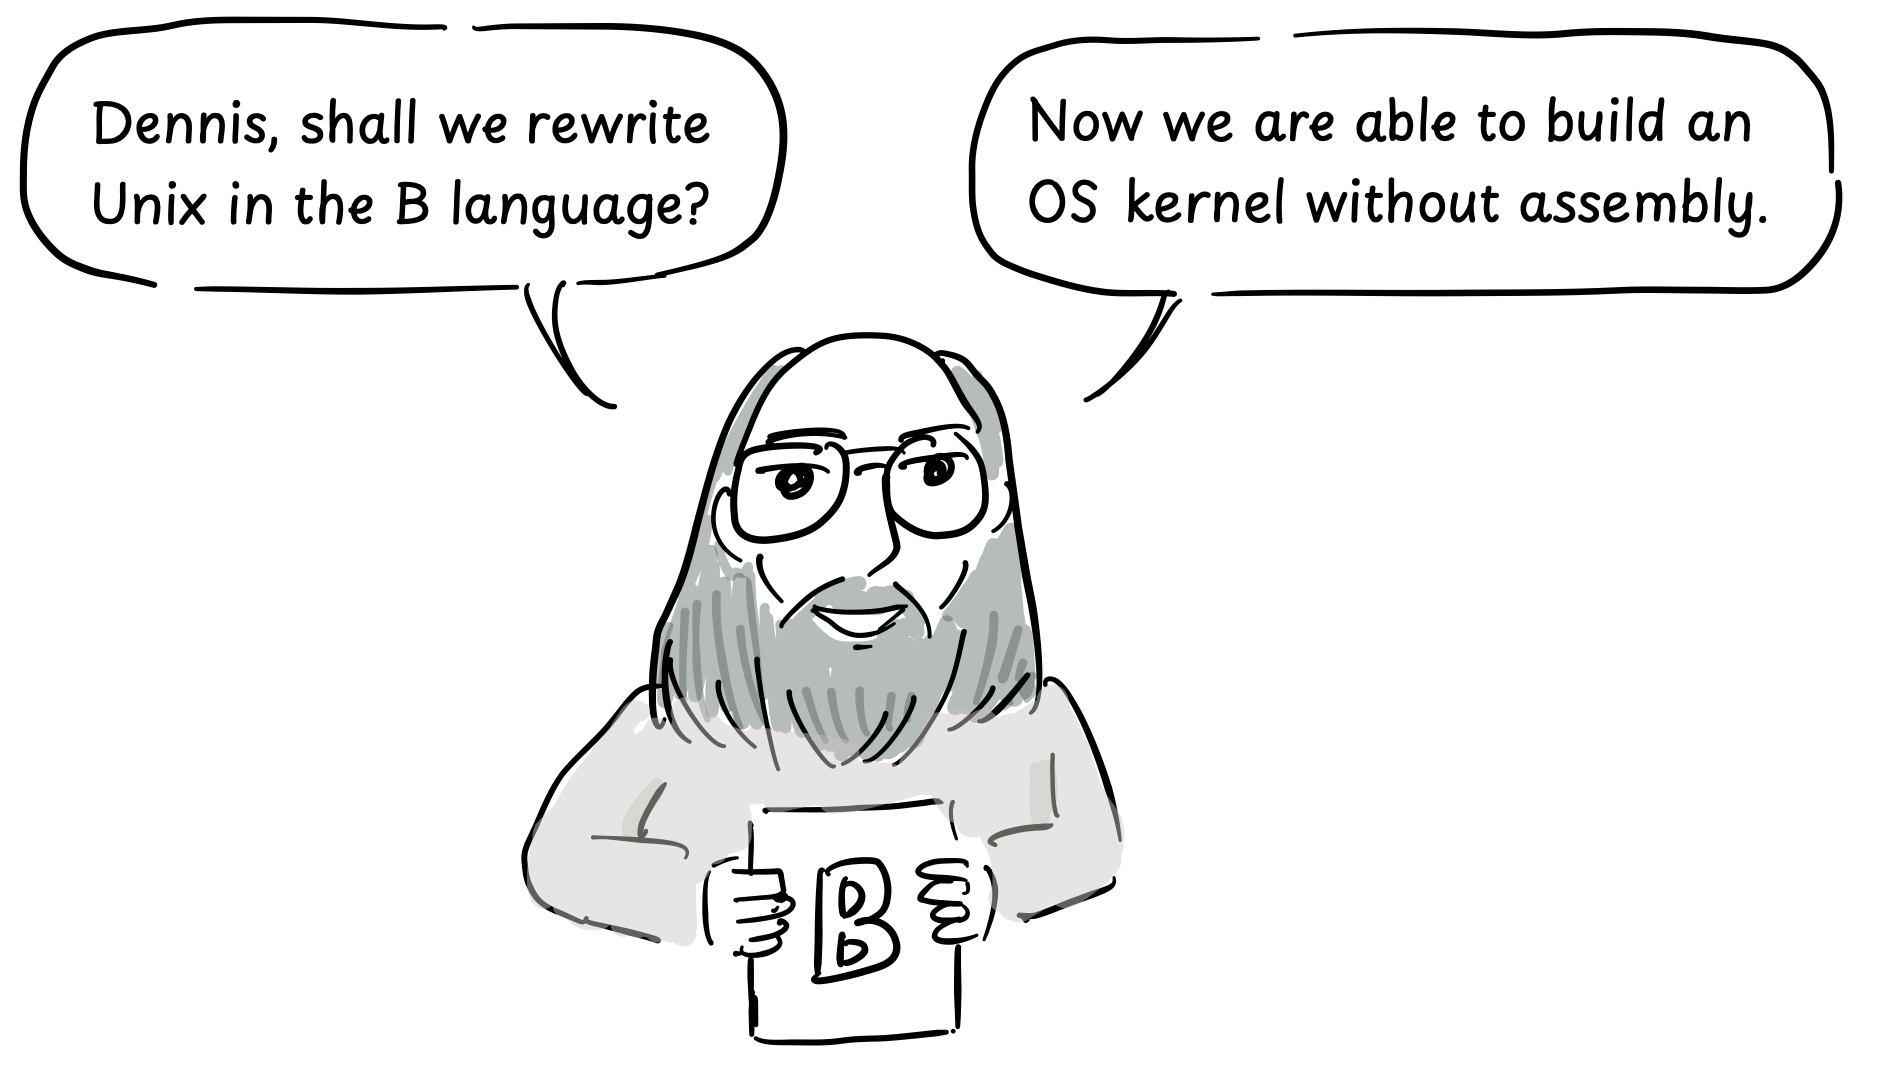
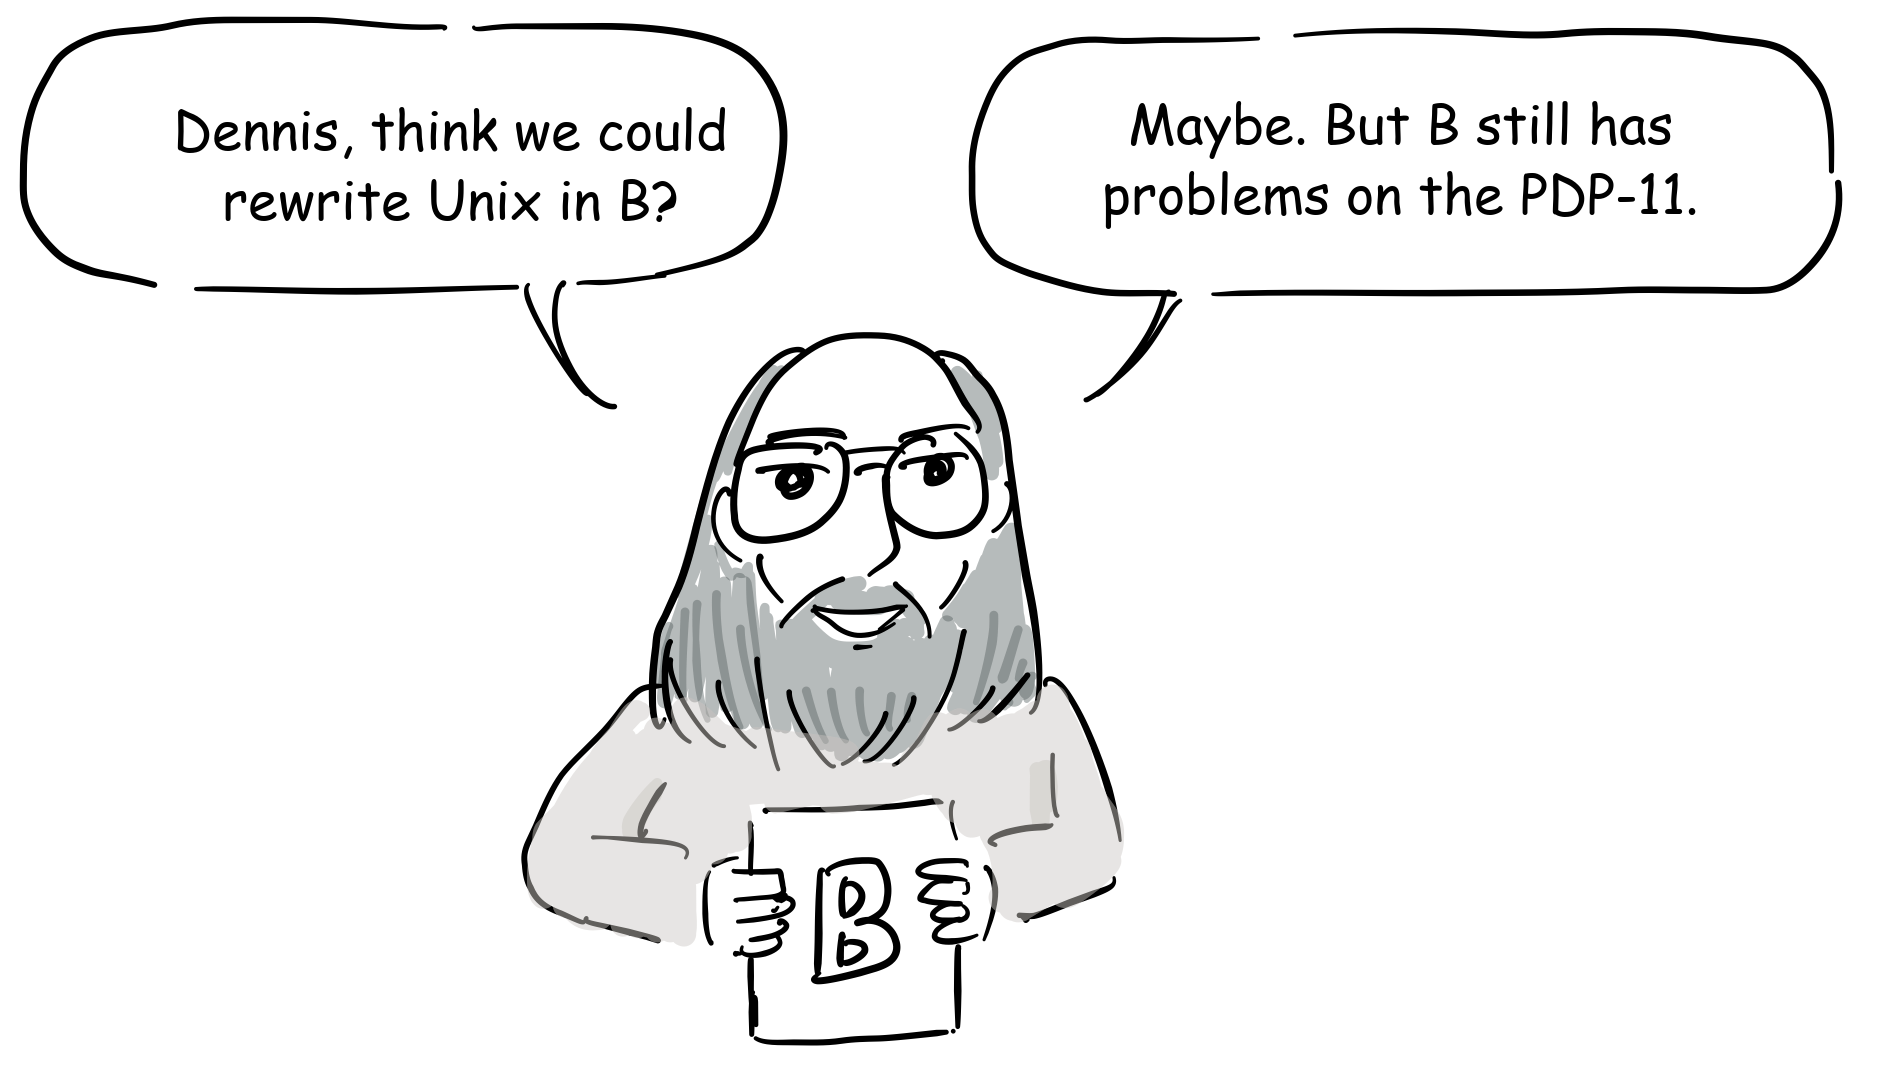
Revise the Unix and C language episode

Changed region(s): [[0.5307, 0.0912, 0.9365, 0.2127], [0.0312, 0.0912, 0.4058, 0.2127]]

diff --git a/content/posts/8. The Origins of Unix and the C Language/index.md b/content/posts/8. The Origins of Unix and the C Language/index.md
@@ -6,104 +6,105 @@ description: In the 1960s, while ITS was developed at MIT, AT&T Bell Labs foster
 tags: UNIX, C Language, Ken Thompson, Dennis Ritchie, B Language, Bell Labs., Multics, PDP-11, 1970s
 ---
 
-In the 1960's, [the Incompatible Timesharing System (ITS)](https://en.wikipedia.org/wiki/Incompatible_Timesharing_System) was being heavily developed at MIT. Meanwhile, at another location on the east coast of the United States, there was another lab with the same hacker spirit: AT\&T Bell Laboratories.
-
-The groundbreaking Unix and C language, which would go on to change the world, were being developed.
+In the 1960s, while MIT was busy developing [the Incompatible Timesharing System (ITS)](https://en.wikipedia.org/wiki/Incompatible_Timesharing_System), another place on the East Coast was buzzing with the same hacker energy: AT\&T Bell Laboratories. This was where Unix and C, two creations that would change computing, were taking shape.
 
 ![](images/8_2.png "MIT vs. Bell Lab.")
-> "I feel the force somewhere…"
+> "I sense the Force somewhere..."
 
-Coincidentally, the people who were working on [Multics](https://en.wikipedia.org/wiki/Multics) were also involved in developing ITS and Unix: MIT folks started ITS, and [Ken Thompson](https://en.wikipedia.org/wiki/Ken_Thompson) along with [Dennis Ritchie](https://en.wikipedia.org/wiki/Dennis_Ritchie) and [Joe Ossanna](https://en.wikipedia.org/wiki/Joe_Ossanna) from Bell Labs created Unix.
+ITS and Unix came from different groups. At Bell Labs, people who had worked on [Multics](https://en.wikipedia.org/wiki/Multics) stepped away and began building Unix. At the center of the effort were [Ken Thompson](https://en.wikipedia.org/wiki/Ken_Thompson), [Dennis Ritchie](https://en.wikipedia.org/wiki/Dennis_Ritchie), and [Joe Ossanna](https://en.wikipedia.org/wiki/Joe_Ossanna).
 
 ![](images/8_3.png)
 > "I think we need to step away from the Multics project now."\
-> "Yeah, the development time has become way longer than we expected."
+> "Yeah. It's taking much longer than we expected."
 
-The Multics project began in 1964, but due to the large code size and complexity, the schedule fell far behind Bell Labs' expectations.
+The Multics project began in 1964. But as the code grew larger and more complicated, the project fell far behind Bell Labs' expectations.
 
 ![](images/8_4.png "size:80%")
 > "Overdesigned and overbuilt and over everything."\
-> "It was close to unusable[&lbrack;1&rbrack;][1]"
+> "It was close to unusable.[&lbrack;1&rbrack;][1]"
 
-
-In 1969, Bell Lab. pulled out of the development of Multics.
+In the end, Bell Labs pulled out of Multics in 1969. Work continued elsewhere, and Multics later became a working commercial system. For Bell Labs, though, it had simply taken too long and cost too much.
 
 ![](images/8_5.png "size:80%")
-> “We’re leaving because we can't meet our schedule.”
+> "We're leaving because we can't meet our schedule."
 
-Based on his experience developing Multics, Ken Thompson creates a new operating system by himself at Bell Labs.
+Back at Bell Labs, Thompson drew on his Multics experience and led the effort to build a smaller, simpler operating system.
 
 ![](images/8_6.png)
-> “Dennis, I'm building a new operating system, taking some ideas from Multics. I'm making it smaller and simpler.” \
-> “That’s a good idea. Shall I join you?”
+> "Dennis, I'm building a new operating system, taking some ideas from Multics. I'm making it smaller and simpler." \
+> "That's a good idea. Shall I join you?"
 
-Ken Thompson reimplemented many of the key features he had developed in Multics in Unix.
+Thompson brought several ideas from Multics into Unix, but rebuilt them in a much simpler form.
 
 ![](images/8_7.png)
-> “I can't make something out of nothing”
+> "I can't make something out of nothing."
 
-He adapted the file system he had already implemented in Multics in Unix on the PDP-7. Dennis Richie, Joe Ossanna, [Rudd Canaday](https://en.wikipedia.org/wiki/Rudd_Canaday) later joined him in the development. Once the development was well underway, a team was organized and they began implementing the operating system features we use today, such as the filesystem, process model, device files, and command line interpreter, for the first time on the PDP-7.
+First came a file system, sketched out by Thompson, [Rudd Canaday](https://en.wikipedia.org/wiki/Rudd_Canaday), and Ritchie. Thompson did most of the design and put it to work on a little-used PDP-7. Ritchie added the idea of device files. Processes, utilities, and a command interpreter followed, with Ossanna and other colleagues joining in as the system grew.[&lbrack;2&rbrack;][2]
 
 ![](images/8_8.png)
-> “First of all, I'm working on a file system. How about we call it Unix?” \
-> “How about mapping devices to files?”
+> "First of all, I'm working on a file system." \
+> "We'll need a name for this thing." \
+> "How about mapping devices to files?"
 
-Then, [PDP-11](https://en.wikipedia.org/wiki/PDP-11) was introduced, which differed in CPU instructions from the PDP-7.
+It was not called Unix at first. Well into 1970, Brian Kernighan suggested the name as a pun on "Multics."
+
+Then a [PDP-11](https://en.wikipedia.org/wiki/PDP-11) arrived. Its CPU instructions were different from the PDP-7's, and Unix was still written in assembly. The code had to be written all over again.
 
 ![](images/8_9.png)
-> "Ken, we have a new PDP-11, why don't we port Unix to it?" \
-> "That's a great idea, but the problem is that the CPU instructions are different, so we'll have to re-write the Unix code with the PDP-11 assembly language."
+> "Ken, a new PDP-11 just came in. How about porting Unix to it?" \
+> "Good idea. Trouble is, we'll have to rewrite it in PDP-11 assembly."
 
 ![](images/8_10.png "size:90%")
-> “Wow, I finally finished porting!" \
-> "But we can't rewrite the Unix code in assembly every time we buy a new computer, right?
+> "Wow, I finally finished the port!" \
+> "But we can't rewrite Unix every time a new computer comes along."
 
 ![](images/8_11.png)
-> “Dennis, shall we rewrite Unix in the B language? Now we are able to build an OS kernel without assembly."
+> "Dennis, think we could rewrite Unix in B?" \
+> "Maybe. But B still has problems on the PDP-11."
 
 ![](images/8_12.png "size:80%")
-> "Maybe we can port Unix to PDP-11 using the B language"  
+> "First, we'll have to make B work properly on the PDP-11."
 
-B language was also developed for use in Multics by Ken Thompson and Dennis Ritchie in 1969.
+At the time, that was easier said than done. Thompson had created B for the early Unix environment around 1969–70, building it from BCPL. It was small enough for the PDP-7, but the code it produced was much slower than assembly. B also treated everything as a machine word, which made it awkward to use on the byte-addressed PDP-11. Rewriting all of Unix in B was considered only briefly.[&lbrack;3&rbrack;][3]
 
 ![](images/8_13.png)
 > "First we need to port the B language to the PDP-11, but there's a problem."
 
-In 1971, Dennis Ritchie added a character type to the B language and rewrote the compiler code to generate PDP-11 machine code\[3].
+In 1971, Ritchie began extending B with a character type and an explicit type system that included `int` and `char`. He also rewrote the compiler to generate PDP-11 machine code instead of threaded code. He called the short-lived language NB, for "New B."[&lbrack;3&rbrack;][3]
 
 ![](images/8_14.png)
-> “Dennis, how's the B language porting going?” \
-> “There are a lot of issues, first of all, it’s hard to access the character data type on PDP-11.”
+> "Dennis, how's the B language porting going?" \
+> "There are a lot of problems. Characters are especially awkward on the PDP-11."
 
 ![](images/8_15.png)
-> "Haha, why don't you completely update the B language this time?” \
-> "I might have to rewrite it from scratch."
+> "Why not tear B apart and fix it properly?" \
+> "I may have to rebuild the whole thing."
 
-In 1973, basic functionalities were complete, and it was called C, which was just the next version of B.
+So Ritchie began tearing B apart and rebuilding it. During 1972, he expanded its type system, reworked arrays and pointers, added structures, and wrote a new compiler. When the new language took shape, he called it C. Whether the name meant the letter after B or continued the letters in BCPL, Ritchie left open. By early 1973, the essentials of modern C were in place.
 
 ![](images/8_16.png)
-> “How about calling it C?” \
+> "How about calling it C?" \
 > "Sounds good"
 
-Dennis Richie began rewriting Unix in C that same year.
+In the summer of 1973, Thompson, Ritchie, and their colleagues rewrote the Unix kernel in C.
 
 ![](images/8_17.png "size:80%")
-> "Hmm, I don't have to code in assembly anymore"
+> "Hmm. No more assembly."
 
-Dennis added the structure type to the C language to define the user's custom data. Now, the C language is powerful enough to write Unix kernels.
+Structures were especially useful. They let C describe data such as Unix directory entries in a way that matched how it was laid out in memory. Now C was powerful enough to write a Unix kernel.
 
 ![](images/8_18.png "size:80%")
 
-Although Unix and C were created in a short period of time by Ken Thompson and Dennis Richie, most computers, including cell phones, still run on OS based on Unix today. In addition, operating system kernels are still developed in C today.
+And so Unix and C came together in a remarkably short time, through the work of Thompson, Ritchie, and their Bell Labs colleagues. Unix and Unix-like systems still run on countless servers, personal computers, and phones. And C is still used to build operating-system kernels and other systems software today.
 
 ## Readings from the Computer History Museum
 1. David C. Brock, the earliest unix code: an anniversary source code release, [CHM](https://computerhistory.org/blog/the-earliest-unix-code-an-anniversary-source-code-release/)
 
 ## References
-1. Multics, [wikipedia](https://en.wikipedia.org/wiki/Multics)
-2. Unix, [wikipedia](https://en.wikipedia.org/wiki/Unix)
-3. History of Unix, [wikipedia](https://en.wikipedia.org/wiki/History\_of\_Unix)
-4. The Development of the C Language [bell-labs.com](https://www.bell-labs.com/usr/dmr/www/chist.html)
-5. The Evolution of the Unix Time-sharing System [www.read.seas.harvard.edu/~kohler](http://www.read.seas.harvard.edu/~kohler/class/aosref/ritchie84evolution.pdf)
+1. Multics, [Wikipedia](https://en.wikipedia.org/wiki/Multics)
+2. Dennis M. Ritchie, [The Evolution of the Unix Time-sharing System](https://www.nokia.com/bell-labs/about/dennis-m-ritchie/hist.html)
+3. Dennis M. Ritchie, [The Development of the C Language](https://www.nokia.com/bell-labs/about/dennis-m-ritchie/chist.html)
 
 [1]: https://en.wikipedia.org/wiki/Multics "Multics, Wikipedia"
+[2]: https://www.nokia.com/bell-labs/about/dennis-m-ritchie/hist.html "The Evolution of the Unix Time-sharing System, Dennis M. Ritchie"
+[3]: https://www.nokia.com/bell-labs/about/dennis-m-ritchie/chist.html "The Development of the C Language, Dennis M. Ritchie"

diff --git a/content/korean/posts/8. 유닉스와 C언어/index.md b/content/korean/posts/8. 유닉스와 C언어/index.md
@@ -1,0 +1,76 @@
+---
+title: 8. 유닉스와 C언어
+date: "2017-02-18"
+image: image15.png
+description: 멀틱스 프로젝트에서 물러난 벨 연구소의 연구자들이 PDP-7에서 유닉스를 만들고, B 언어의 한계를 넘어 NB와 C를 개발해 유닉스 커널을 다시 작성하기까지의 이야기입니다.
+tags: 유닉스, C 언어, 켄 톰프슨, 데니스 리치, B 언어, 벨 연구소, 멀틱스, PDP-11, 1970년대
+---
+
+1960년대 MIT에서 [ITS(Incompatible Timesharing System)](https://ko.wikipedia.org/wiki/호환_시분할_시스템)가 한창 개발되고 있는 동안, 미 동부의 다른 곳에서도 해커의 기운이 물씬 풍기는 곳이 있었는데, 바로 벨 연구소(AT\&T Bell Laboratories)였다. 여기서 앞으로 세상을 바꿀 유닉스와 C언어가 개발되고 있었다.
+
+MIT에서는 ITS가 만들어지고 있었고, 공교롭게도 벨 연구소에서는 [멀틱스(Multics)](https://ko.wikipedia.org/wiki/멀틱스) 개발에 참여했던 사람들이 나와 유닉스를 만들기 시작했다. 그 중심에는 [켄 톰프슨](https://ko.wikipedia.org/wiki/켄_톰프슨), [데니스 리치](https://ko.wikipedia.org/wiki/데니스_리치), 조 오산나가 있었다.
+
+![](image1.png)
+
+멀틱스 프로젝트는 1964년에 시작되었으나, 코드 크기가 커지고 복잡도가 높아지면서 벨 연구소에서 예상했던 것보다 일정이 많이 지연되고 있었다.
+
+![](image4.png)
+
+결국 벨 연구소는 1969년 멀틱스 개발에서 손을 뗀다. 이후에도 멀틱스 개발은 계속되어 실제 서비스와 상용 시스템으로 운영되었지만, 벨 연구소가 기다리기에는 개발이 너무 늦어지고 비용도 많이 들었다.
+
+![](image12.png)
+
+벨 연구소로 돌아온 켄 톰프슨은 멀틱스 개발 경험을 토대로 좀 더 작고 단순한 운영체제를 만드는 작업을 주도했다.
+
+![](image11.png)
+
+켄 톰프슨은 멀틱스에서 익힌 주요 아이디어를 가져와 더 단순한 형태로 유닉스에 구현했다.
+
+![](image6.png)
+
+우선 켄 톰프슨, 러드 캐너데이, 데니스 리치가 함께 구상한 파일 시스템을 사용되지 않던 PDP-7에 구현했다. 설계의 대부분은 톰프슨이 맡았고, 리치는 디바이스 파일 아이디어를 보탰다. 이어서 프로세스, 유틸리티, 커맨드 라인 해석기를 추가했고, 조 오산나를 비롯한 동료들도 개발에 참여했다.[&lbrack;1&rbrack;][1]
+
+![](image14.png)
+
+처음부터 이 운영체제를 유닉스라고 부른 것은 아니었다. 1970년이 상당히 지난 뒤에야 브라이언 커니핸이 멀틱스라는 이름을 비튼 “Unix”라는 이름을 제안했다.[&lbrack;1&rbrack;][1]
+
+그 후 [PDP-11](https://ko.wikipedia.org/wiki/PDP-11)이 도입되었는데, PDP-7과 CPU 명령어가 달랐다. 유닉스는 어셈블리어로 개발되었기 때문에 PDP-11용으로 코드를 다시 짜야 했다.
+
+![](image2.png)
+
+![](image9.png)
+
+하지만 새 컴퓨터가 들어올 때마다 어셈블리 코드를 다시 짤 수는 없는 노릇이었다. 그렇다면 B언어로 유닉스를 다시 만들 수 있을까?
+
+![](image8.png)
+
+당시에는 아직 어려웠다. B언어는 켄 톰프슨이 1969~70년 무렵 초기 유닉스 환경을 위해 만든 언어로, BCPL에서 발전한 작고 단순한 언어였다. 하지만 B 컴파일러가 만든 코드는 어셈블리 코드보다 훨씬 느렸고, 모든 데이터를 하나의 기계어 워드로 다루는 방식도 바이트 단위로 메모리에 접근하는 PDP-11과 잘 맞지 않았다. 그래서 유닉스 전체를 B언어로 다시 쓰는 방안은 잠시 검토되었을 뿐이었다.[&lbrack;2&rbrack;][2]
+
+![](image5.png)
+
+1971년 데니스 리치는 B언어에 문자 타입을 추가하고, `int`와 `char`를 명시하는 타입 체계를 만들기 시작했다. 또한 스레드 코드 대신 PDP-11 기계어를 생성하도록 컴파일러를 다시 작성했다. 그는 잠시 존재했던 이 언어를 “New B”라는 뜻의 NB라고 불렀다.[&lbrack;2&rbrack;][2]
+
+![](image10.png)
+
+![](image13.png)
+
+리치는 B언어를 싹 뜯어고치기 시작했다. 1972년에는 타입 체계를 확장하고 배열과 포인터의 동작을 새로 정리했으며, 구조체와 새로운 컴파일러를 만들었다. 새로운 언어가 모습을 갖추자 C언어라고 이름 붙였다. B의 다음 글자를 따른 것인지, BCPL의 글자를 이어 간 것인지는 리치도 명확히 정하지 않았다. 1973년 초에는 오늘날 C언어의 핵심 기능이 거의 완성되었다.[&lbrack;2&rbrack;][2]
+
+![](image3.png)
+
+1973년 여름, 톰프슨과 리치를 비롯한 동료들은 C언어로 유닉스 커널을 다시 작성했다. 특히 구조체 타입을 추가하면서 디렉터리 항목 같은 데이터를 메모리 구조에 맞게 표현할 수 있게 되었다. 이제 C언어는 유닉스 커널을 작성할 수 있을 정도로 강력해졌다.
+
+![](image7.png)
+
+![](image16.png)
+
+이처럼 유닉스와 C언어는 켄 톰프슨과 데니스 리치를 비롯한 벨 연구소 동료들의 손에서 짧은 기간에 탄생했다. 오늘날에도 유닉스와 유닉스 계열 운영체제는 수많은 서버와 개인용 컴퓨터, 핸드폰에서 동작하고 있다. 또한 C언어는 여전히 운영체제 커널과 시스템 소프트웨어를 개발하는 중요한 언어로 사용되고 있다.
+
+## 참고 자료
+
+1. Dennis M. Ritchie, [The Evolution of the Unix Time-sharing System](https://www.nokia.com/bell-labs/about/dennis-m-ritchie/hist.html)
+2. Dennis M. Ritchie, [The Development of the C Language](https://www.nokia.com/bell-labs/about/dennis-m-ritchie/chist.html)
+3. David C. Brock, [The Earliest Unix Code: An Anniversary Source Code Release](https://computerhistory.org/blog/the-earliest-unix-code-an-anniversary-source-code-release/)
+
+[1]: https://www.nokia.com/bell-labs/about/dennis-m-ritchie/hist.html "The Evolution of the Unix Time-sharing System, Dennis M. Ritchie"
+[2]: https://www.nokia.com/bell-labs/about/dennis-m-ritchie/chist.html "The Development of the C Language, Dennis M. Ritchie"
